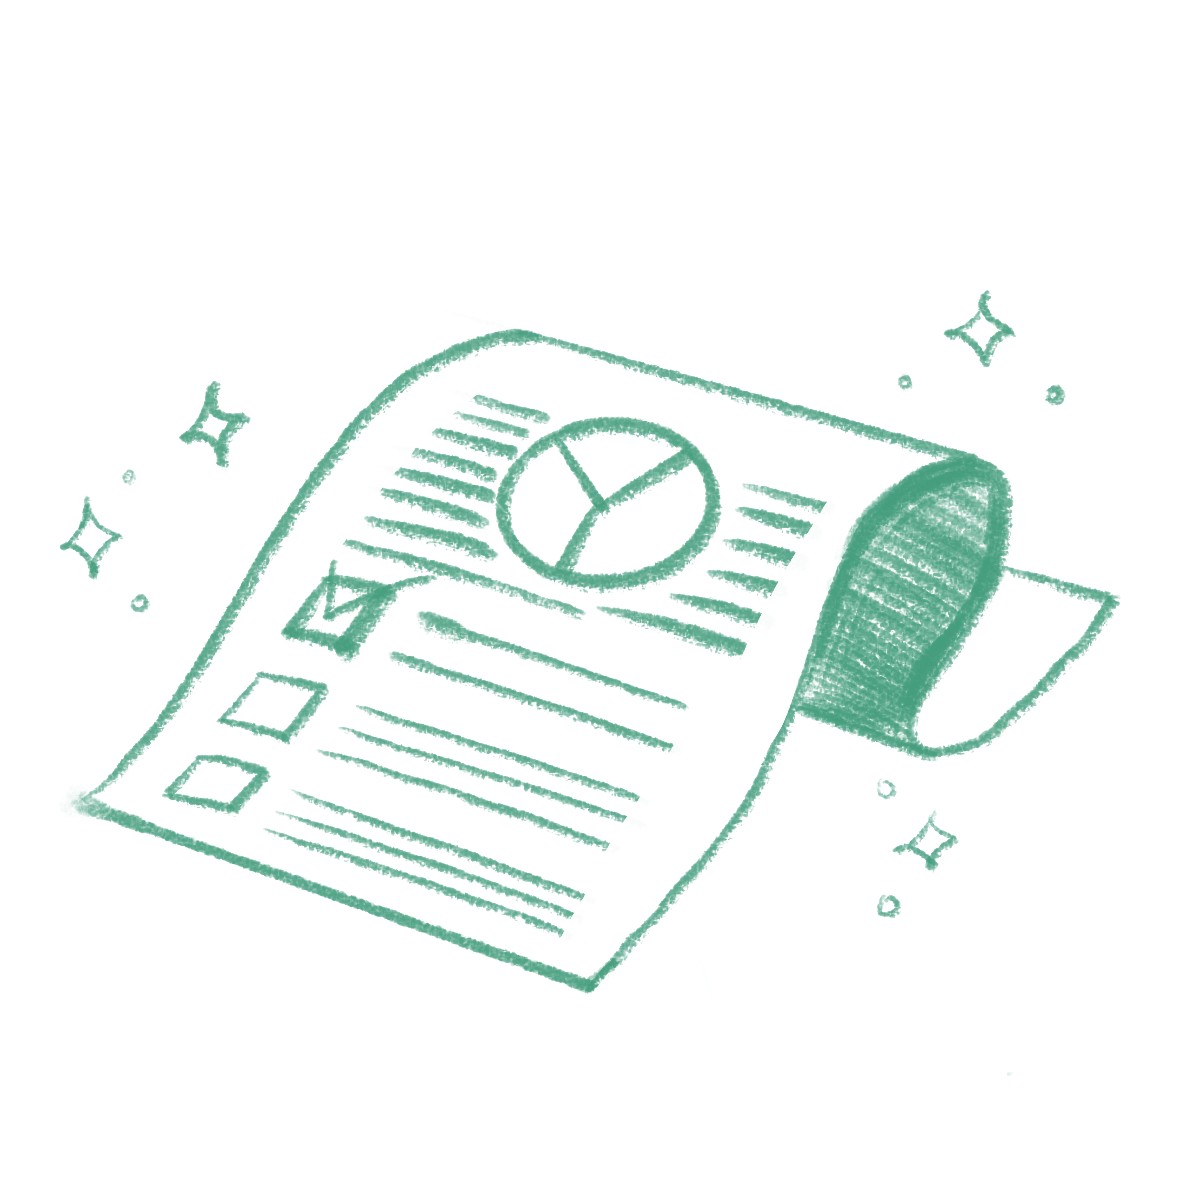
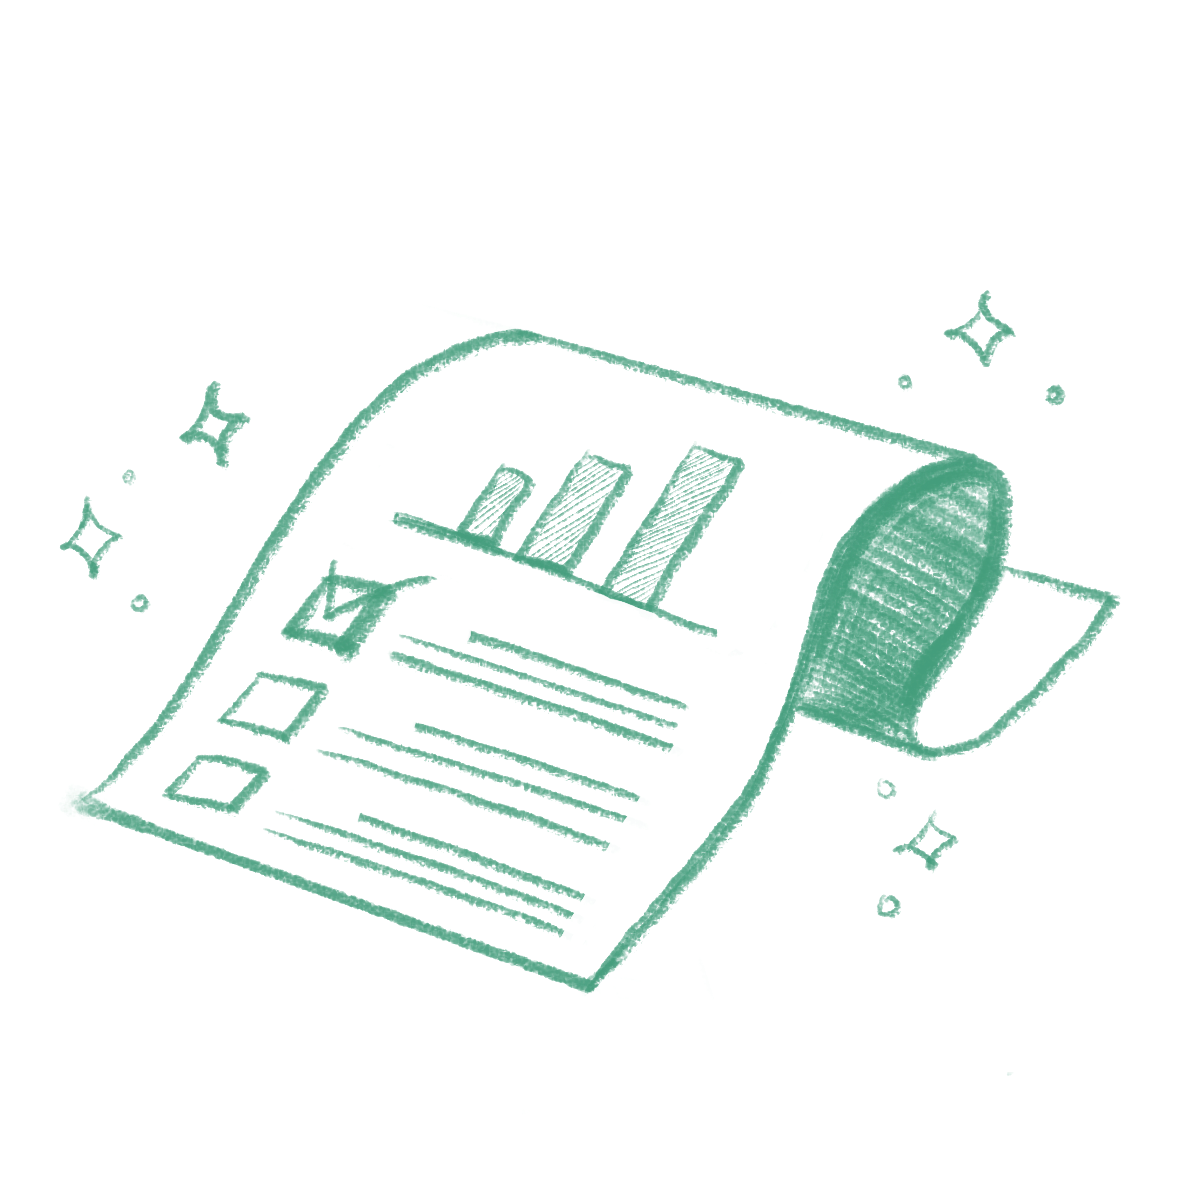
[feat] 이미지 추가

diff --git a/front/src/site.config.ts b/front/src/site.config.ts
@@ -74,6 +74,7 @@ export const siteOverrides: SiteConfigOverride = {
           '가독성 중심 레이아웃·정보 구조 설계',
           '포트폴리오/후기/연락처 등 신뢰 요소 강화',
         ],
+        image: '/branding/DE_ill.png',
       },
       {
         id: 'launch',
@@ -87,6 +88,7 @@ export const siteOverrides: SiteConfigOverride = {
           '문의/예약/FAQ 등 운영 자동화 포인트 적용',
           '유입·이탈·클릭 기반 개선 포인트 제공',
   ],
+        image: '/branding/CO_ill.png',
       },
     ],
     portfolio: [

diff --git a/front/src/sections/sections.css.ts b/front/src/sections/sections.css.ts
@@ -31,7 +31,7 @@ export const heroGrid = style({
   gap: '28px',
   alignItems: 'center',
   alignContent: 'center',
-  paddingTop: '50px',
+  paddingTop: '80px',
   gridTemplateColumns: 'repeat(auto-fit, minmax(260px, 1fr))',
   position: 'relative',
   zIndex: 2,
@@ -520,7 +520,7 @@ export const servicesNumberStack = style({
 export const servicesLine = style({
   width: '2px',
   height: '100%',
-  backgroundColor: '#d064fb',
+  backgroundColor: '#8564fb',
   borderRadius: '999px',
 })
 
